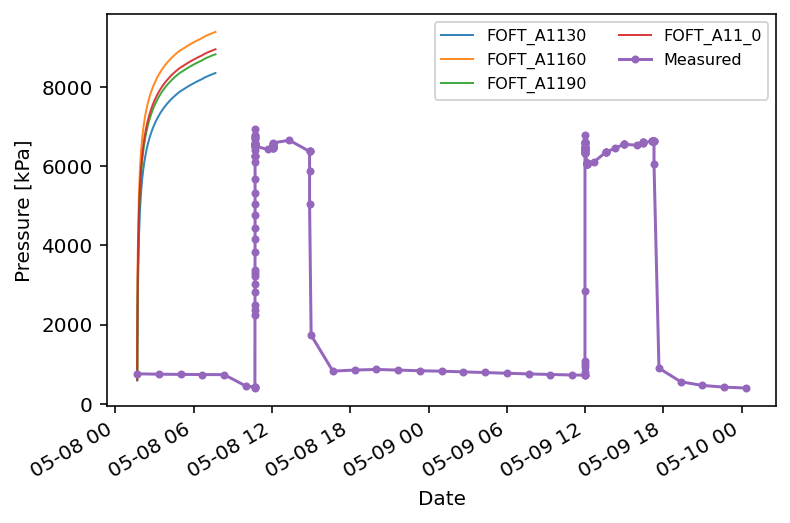
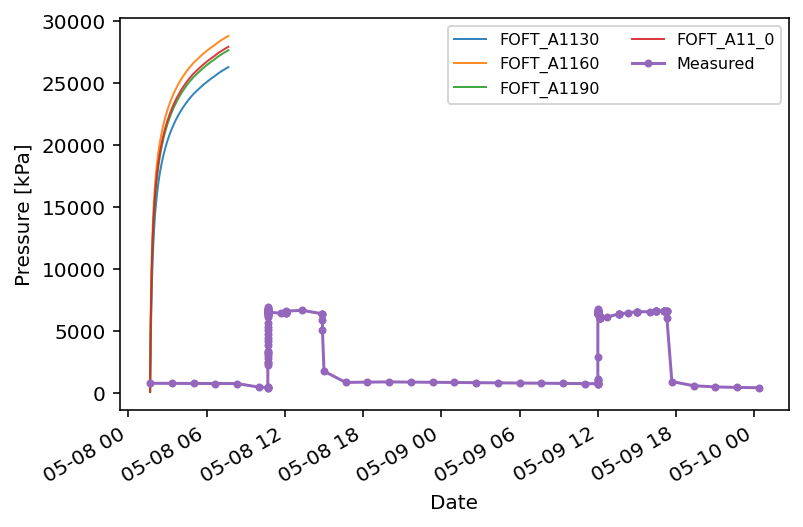
back to 2.5e-14 permeability

Changed region(s): [[0.0, 0.0, 1.0, 0.979]]

diff --git a/infile_writer.py b/infile_writer.py
@@ -120,7 +120,7 @@ parameters["rocks"] = {
     "INJEC": {
         "density": 2500,
         "porosity": 0.999, 
-        "permeability": [2.5e-16, 2.5e-16, 2.5e-16], #[1e-13, 1e-13,1e-13],
+        "permeability": [1e-13, 1e-13,1e-13],
         "specific_heat":920e20, #constant temperature in injection well by making heat capacity huge
         #"relative_permeability": {
         #    "id": 3, #van genuchten 
